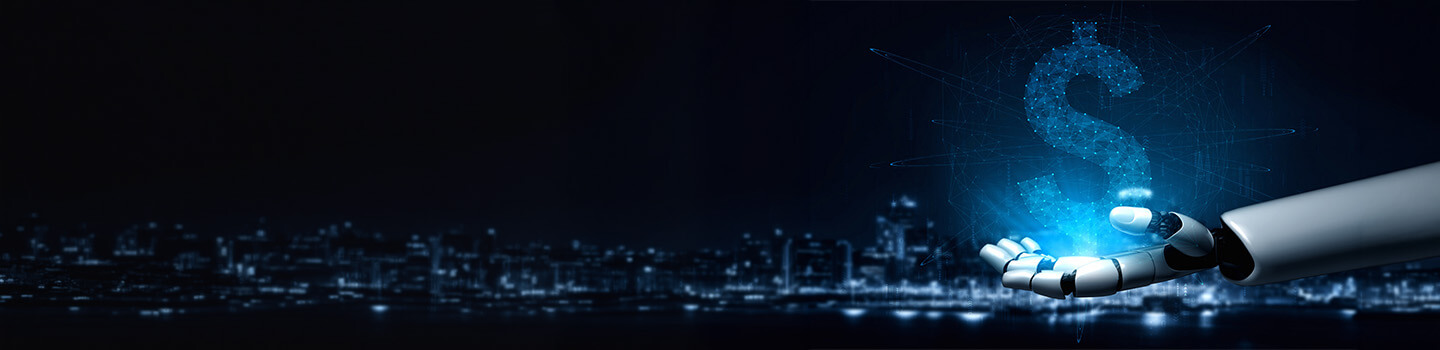
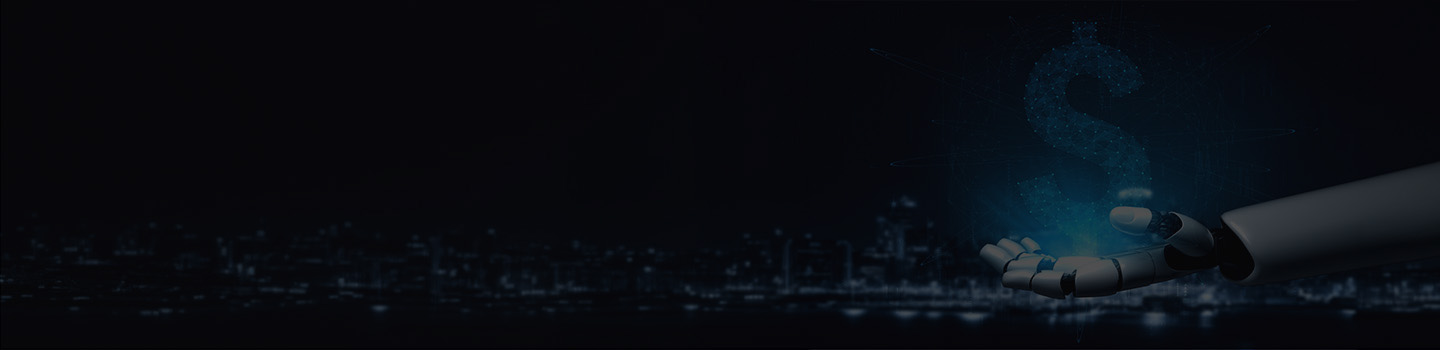
freight-iq-image-chnage

diff --git a/src/pages/HomePage.tsx b/src/pages/HomePage.tsx
@@ -1209,17 +1209,17 @@ const AcceleratorsSection = () => {
         onMouseEnter={() => setIsPaused(true)}
         onMouseLeave={() => setIsPaused(false)}
       >
-        <div className="mb-16 text-left">
+        <div className="mb-10 text-left">
           <motion.div
             initial={{ opacity: 0, y: 30 }}
             whileInView={{ opacity: 1, y: 0 }}
             viewport={{ once: true }}
             transition={{ duration: 0.8 }}
           >
-            <h2 className="section-heading-on-dark mb-6">
+            <h2 className="section-heading-on-dark mb-2">
               Go Faster With Our Accelerators
             </h2>
-            <div className="w-12 h-1 bg-accent mb-6" />
+            <div className="w-12 h-1 bg-accent mb-4" />
             <p className="text-lg text-slate-300 font-medium leading-relaxed w-full">
               Accelerate your engineering journey with hyper-specialized IP and
               pre-built intelligence components.
